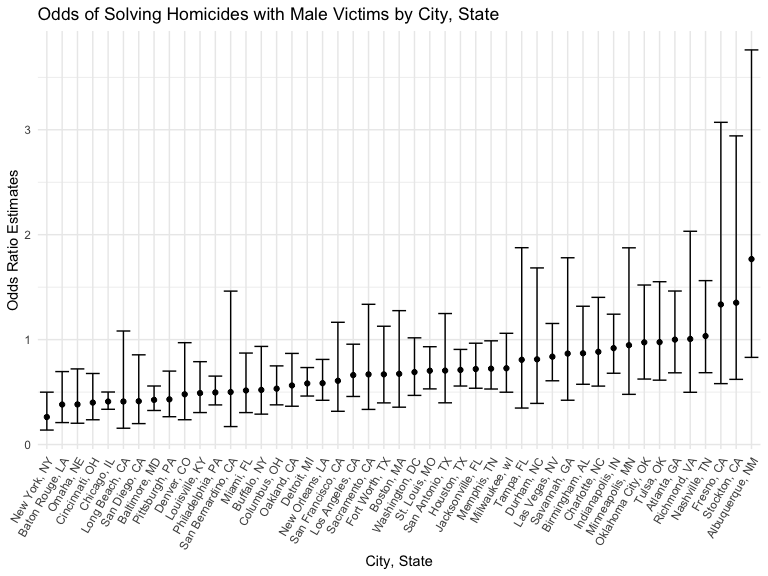
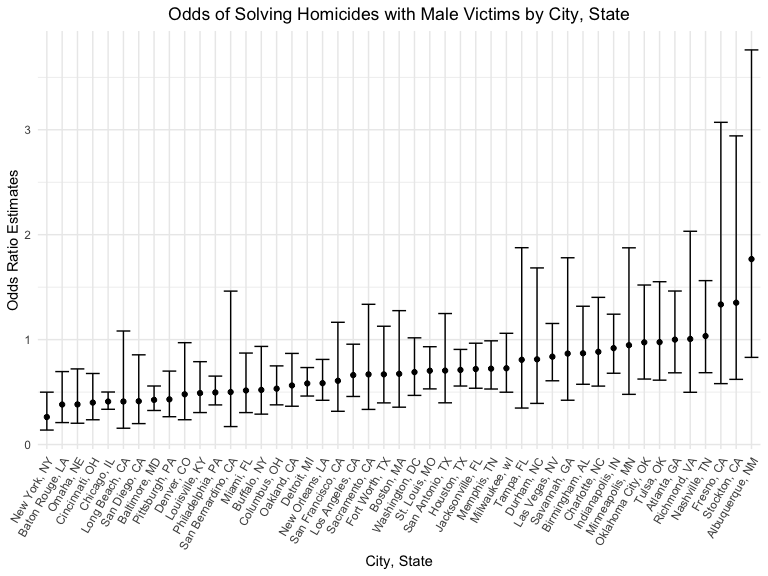
Problem 2 - Adding plot title + formatting

Changed region(s): [[0.0312, 0.0, 0.8125, 0.0625]]

diff --git a/p8105_hw6_els2250.md b/p8105_hw6_els2250.md
@@ -183,7 +183,8 @@ homicide_data_analysis %>%
   ) +
   theme(
     axis.text.x = element_text(angle = 60, hjust = 1),
-    legend.position = "none"
+    legend.position = "none",
+    plot.title = element_text(hjust = 0.5)
   )
 ```
 
